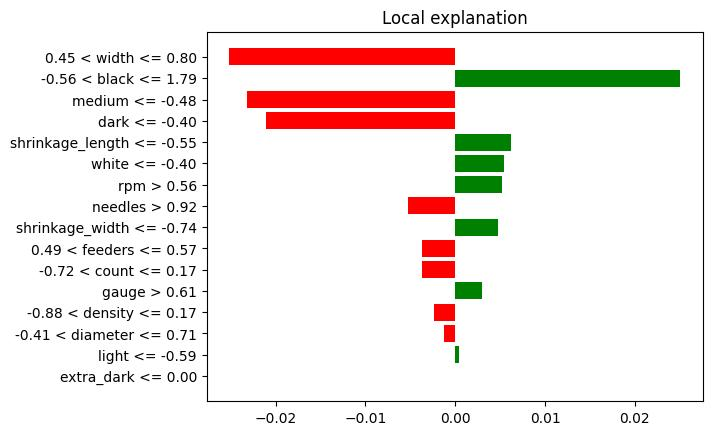
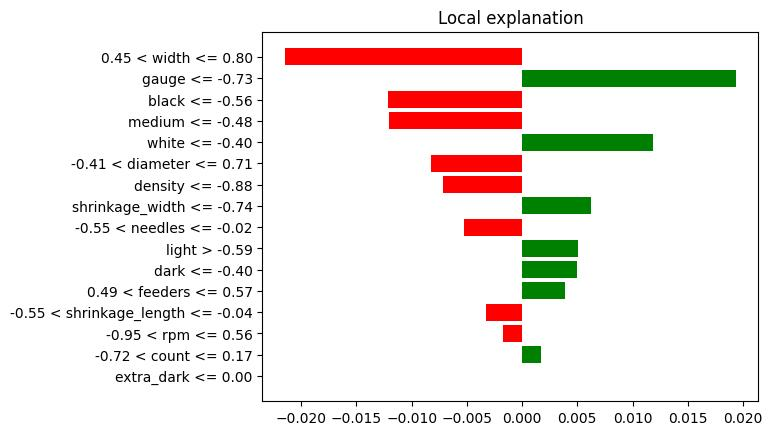
add readme

diff --git a/assets/images/explainer.html b/assets/images/explainer.html
@@ -37089,25 +37089,25 @@
 /***/ })
 /******/ ]);
 //# sourceMappingURL=bundle.js.map </script></head><body>
-        <div class="lime top_div" id="top_divZXFKRVCGHV59O1T"></div>
+        <div class="lime top_div" id="top_div7NDOX94IJHYMURD"></div>
         
         <script>
-        var top_div = d3.select('#top_divZXFKRVCGHV59O1T').classed('lime top_div', true);
+        var top_div = d3.select('#top_div7NDOX94IJHYMURD').classed('lime top_div', true);
         
         
                     var pp_div = top_div.append('div')
                                         .classed('lime predicted_value', true);
                     var pp_svg = pp_div.append('svg').style('width', '100%');
-                    var pp = new lime.PredictedValue(pp_svg, 0.27888742089271545, 0.16322436928749084, 0.6261542439460754);
+                    var pp = new lime.PredictedValue(pp_svg, 0.2565248906612396, 0.10401792079210281, 0.5385029315948486);
                     
         var exp_div;
             var exp = new lime.Explanation(["negative", "positive"]);
         
             exp_div = top_div.append('div').classed('lime explanation', true);
-            exp.show([["0.45 < width <= 0.80", -0.02516630859022664], ["-0.56 < black <= 1.79", 0.025026552673659583], ["medium <= -0.48", -0.023131719888683067], ["dark <= -0.40", -0.02104507923174774], ["shrinkage_length <= -0.55", 0.0061757908387603125], ["white <= -0.40", 0.005378731438444286], ["rpm > 0.56", 0.005225674374818533], ["needles > 0.92", -0.005224444884364198], ["shrinkage_width <= -0.74", 0.004776153968214847], ["0.49 < feeders <= 0.57", -0.0036962536985247433], ["-0.72 < count <= 0.17", -0.003689284925177678], ["gauge > 0.61", 0.0029429677820550825], ["-0.88 < density <= 0.17", -0.002374307895660496], ["-0.41 < diameter <= 0.71", -0.0012654570657253843], ["light <= -0.59", 0.00039258251041205647], ["extra_dark <= 0.00", 0.0]], 1, exp_div);
+            exp.show([["0.45 < width <= 0.80", -0.021466409265075013], ["gauge <= -0.73", 0.01936253713595967], ["black <= -0.56", -0.012119319863045123], ["medium <= -0.48", -0.012053669465744474], ["white <= -0.40", 0.01185317423756867], ["-0.41 < diameter <= 0.71", -0.008270658209302636], ["density <= -0.88", -0.007128863511515369], ["shrinkage_width <= -0.74", 0.006196328011655851], ["-0.55 < needles <= -0.02", -0.005226993062899295], ["light > -0.59", 0.0051052131338241895], ["dark <= -0.40", 0.0049445248226392515], ["0.49 < feeders <= 0.57", 0.0038955942224490094], ["-0.55 < shrinkage_length <= -0.04", -0.0032992050300521196], ["-0.95 < rpm <= 0.56", -0.0017231530534839732], ["-0.72 < count <= 0.17", 0.0016737132796092473], ["extra_dark <= 0.00", 0.0]], 1, exp_div);
             
         var raw_div = top_div.append('div');
-            exp.show_raw_tabular([["width", "0.75", -0.02516630859022664], ["black", "1.79", 0.025026552673659583], ["medium", "-0.48", -0.023131719888683067], ["dark", "-0.40", -0.02104507923174774], ["shrinkage_length", "-1.66", 0.0061757908387603125], ["white", "-0.40", 0.005378731438444286], ["rpm", "1.32", 0.005225674374818533], ["needles", "1.99", -0.005224444884364198], ["shrinkage_width", "-3.15", 0.004776153968214847], ["feeders", "0.57", -0.0036962536985247433], ["count", "-0.72", -0.003689284925177678], ["gauge", "1.95", 0.0029429677820550825], ["density", "-0.18", -0.002374307895660496], ["diameter", "0.71", -0.0012654570657253843], ["light", "-0.59", 0.00039258251041205647], ["extra_dark", "0.00", 0.0]], 1, raw_div);
+            exp.show_raw_tabular([["width", "0.56", -0.021466409265075013], ["gauge", "-0.73", 0.01936253713595967], ["black", "-0.56", -0.012119319863045123], ["medium", "-0.48", -0.012053669465744474], ["white", "-0.40", 0.01185317423756867], ["diameter", "0.71", -0.008270658209302636], ["density", "-0.88", -0.007128863511515369], ["shrinkage_width", "-0.74", 0.006196328011655851], ["needles", "-0.02", -0.005226993062899295], ["light", "1.69", 0.0051052131338241895], ["dark", "-0.40", 0.0049445248226392515], ["feeders", "0.57", 0.0038955942224490094], ["shrinkage_length", "-0.04", -0.0032992050300521196], ["rpm", "0.56", -0.0017231530534839732], ["count", "-0.72", 0.0016737132796092473], ["extra_dark", "0.00", 0.0]], 1, raw_div);
         
         </script>
         </body></html>

diff --git a/readMe.md b/readMe.md
@@ -16,5 +16,7 @@ pip install
 ##Run in debug mode
 export FLASK_DEBUG=1
 flask run  --debugger
+#in docker
+flask run --host=0.0.0.0
 ####in app.py
  app.config['TEMPLATES_AUTO_RELOAD'] = True 
